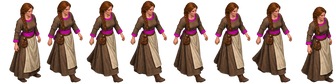
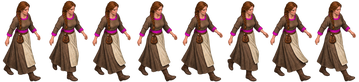
Real step-cycle walk animations for Britons villagers; steps synced to distance
Claude-Session: https://claude.ai/code/session_01Kh61o2tWudVh2u8JhDDvEU

diff --git a/js/art.js b/js/art.js
@@ -64,6 +64,7 @@
   // Art keys: unit_<civ>_<type>_<sex>_<anim>, falling back to the Britons set, then to the old single walk strip.
   const CARRY = { wood: '#8a5f34', food: '#c8414a', gold: '#f0c93a', stone: '#c8c6c0' };
   const FPS = { walk_se: 11, walk_ne: 11, carry_wood: 10, carry_ore: 9, carry_food: 10, idle: 5, chop: 9, mine: 9, farm: 8, forage: 8, build: 10, death: 10 };
+  const STRIDE = 1.15;
   const WORK = { tree: 'chop', gold: 'mine', stone: 'mine', berry: 'forage' };
   const CARRY_ANIM = { wood: 'carry_wood', gold: 'carry_ore', stone: 'carry_ore', food: 'carry_food' };
 
@@ -111,7 +112,8 @@
     const moving = u.path.length > 0;
     let f = 0;
     if (legacy) f = moving ? Math.floor(u.walk * 11) % d.frames : 0;
-    else if (moving) f = Math.floor(u.walk * FPS[anim]);
+    // steps follow distance travelled, so feet don't slide (one full 8-frame cycle per STRIDE tiles)
+    else if (moving) f = Math.floor((u.dist || 0) / STRIDE * d.frames);
     else f = Math.floor((G.time + (u.id % 7) * 0.37) * (FPS[anim] || 8));
     ctx.fillStyle = 'rgba(0,0,0,0.25)';
     ctx.beginPath(); ctx.ellipse(x, y, 9 * z, 4 * z, 0, 0, 7); ctx.fill();

diff --git a/js/entities.js b/js/entities.js
@@ -358,6 +358,7 @@
     if (Math.abs(dx - dy) > 0.01) u.face = (dx - dy) > 0 ? 1 : -1;
     u.up = (dx + dy) < -0.05;
     u.walk += dt;
+    u.dist = (u.dist || 0) + Math.min(step, d);
     if (d <= step) { u.x = wp.x; u.y = wp.y; u.path.shift(); return u.path.length === 0; }
     u.x += dx / d * step; u.y += dy / d * step;
     return false;
